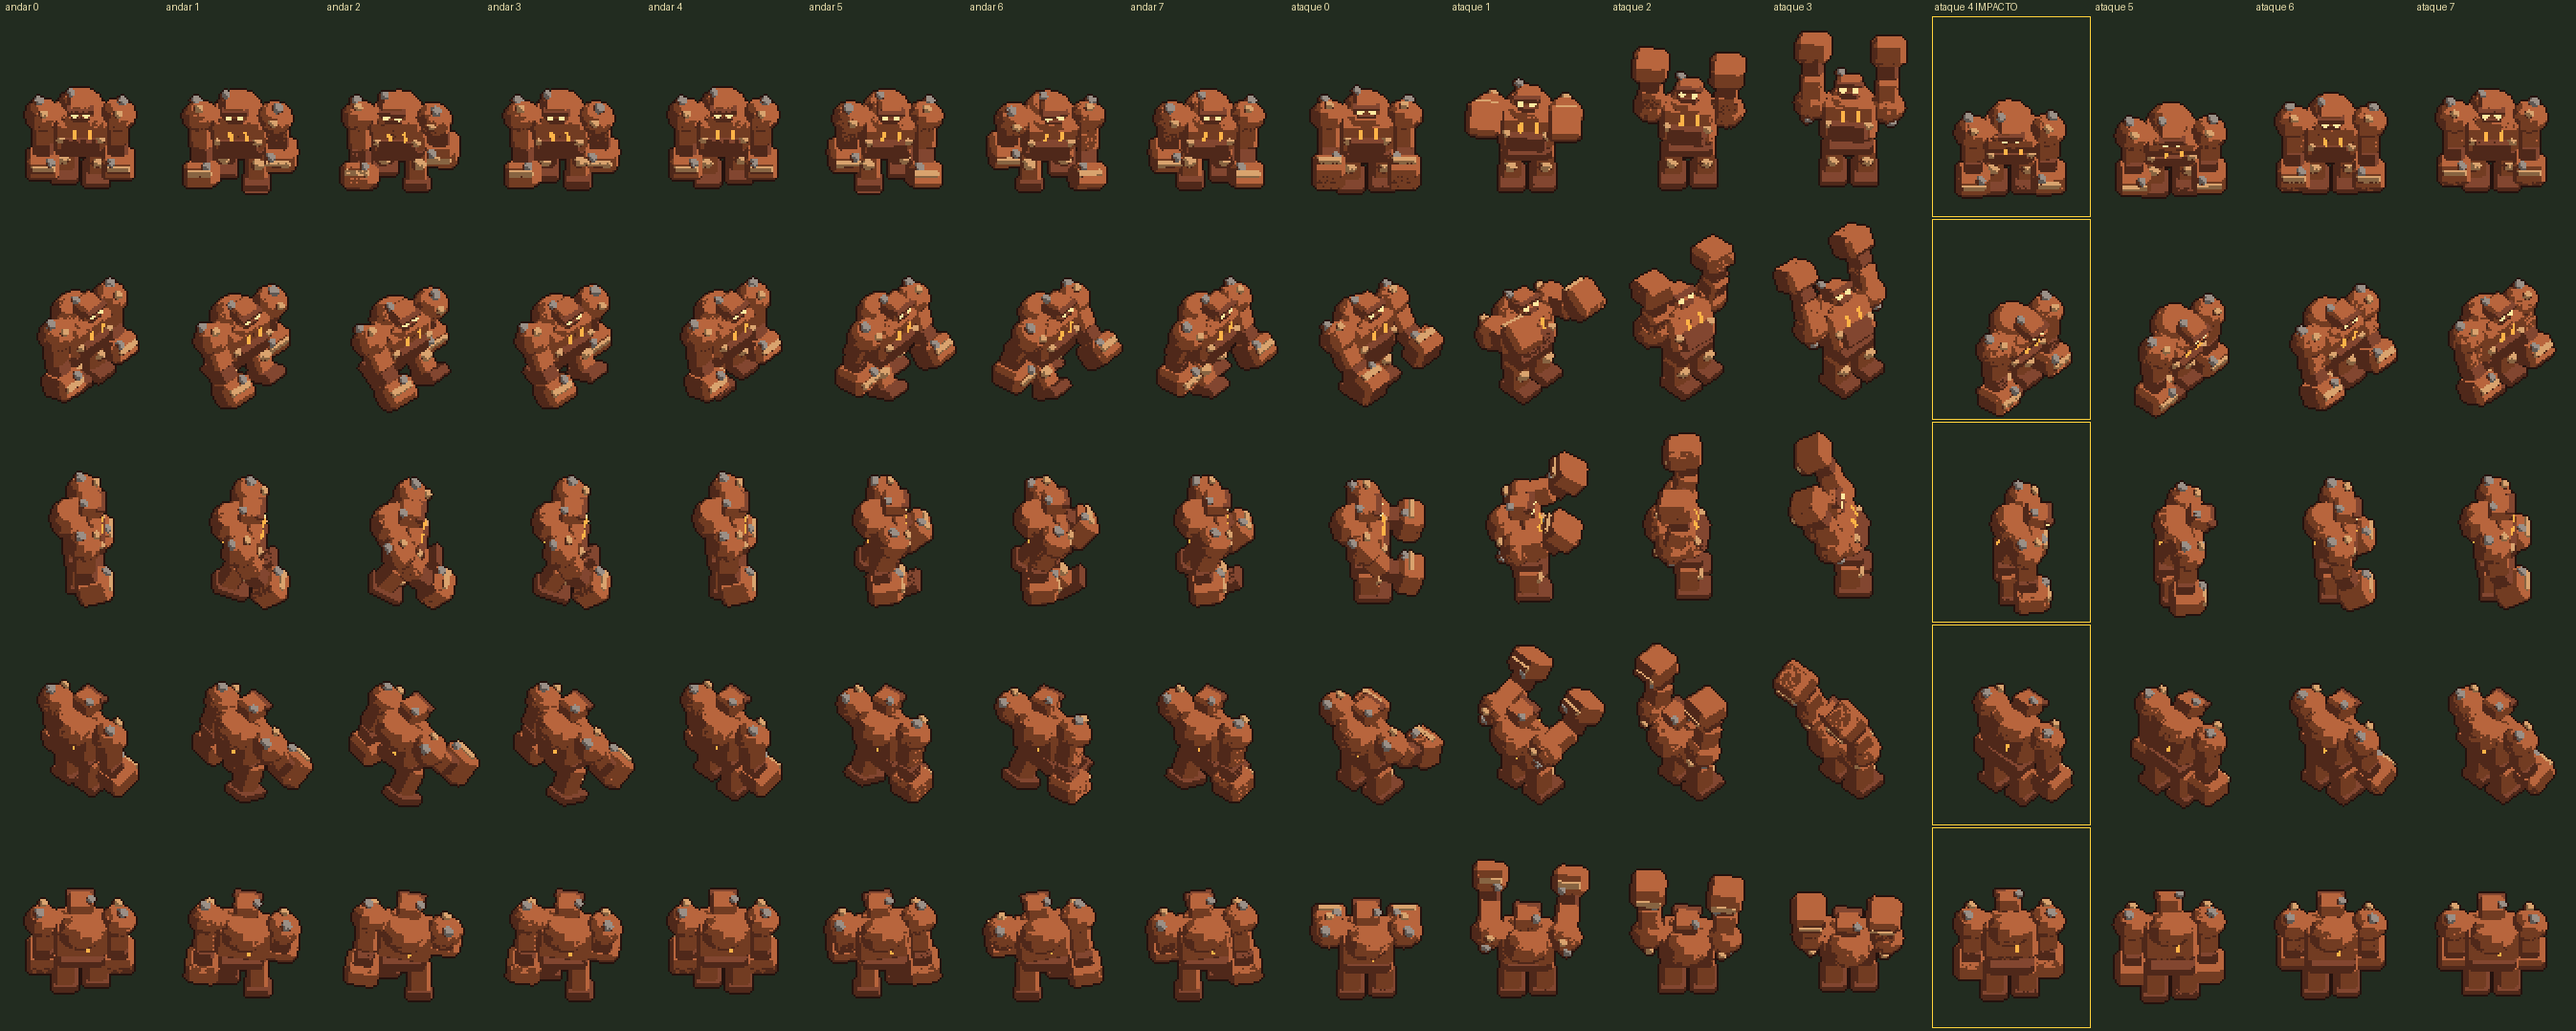
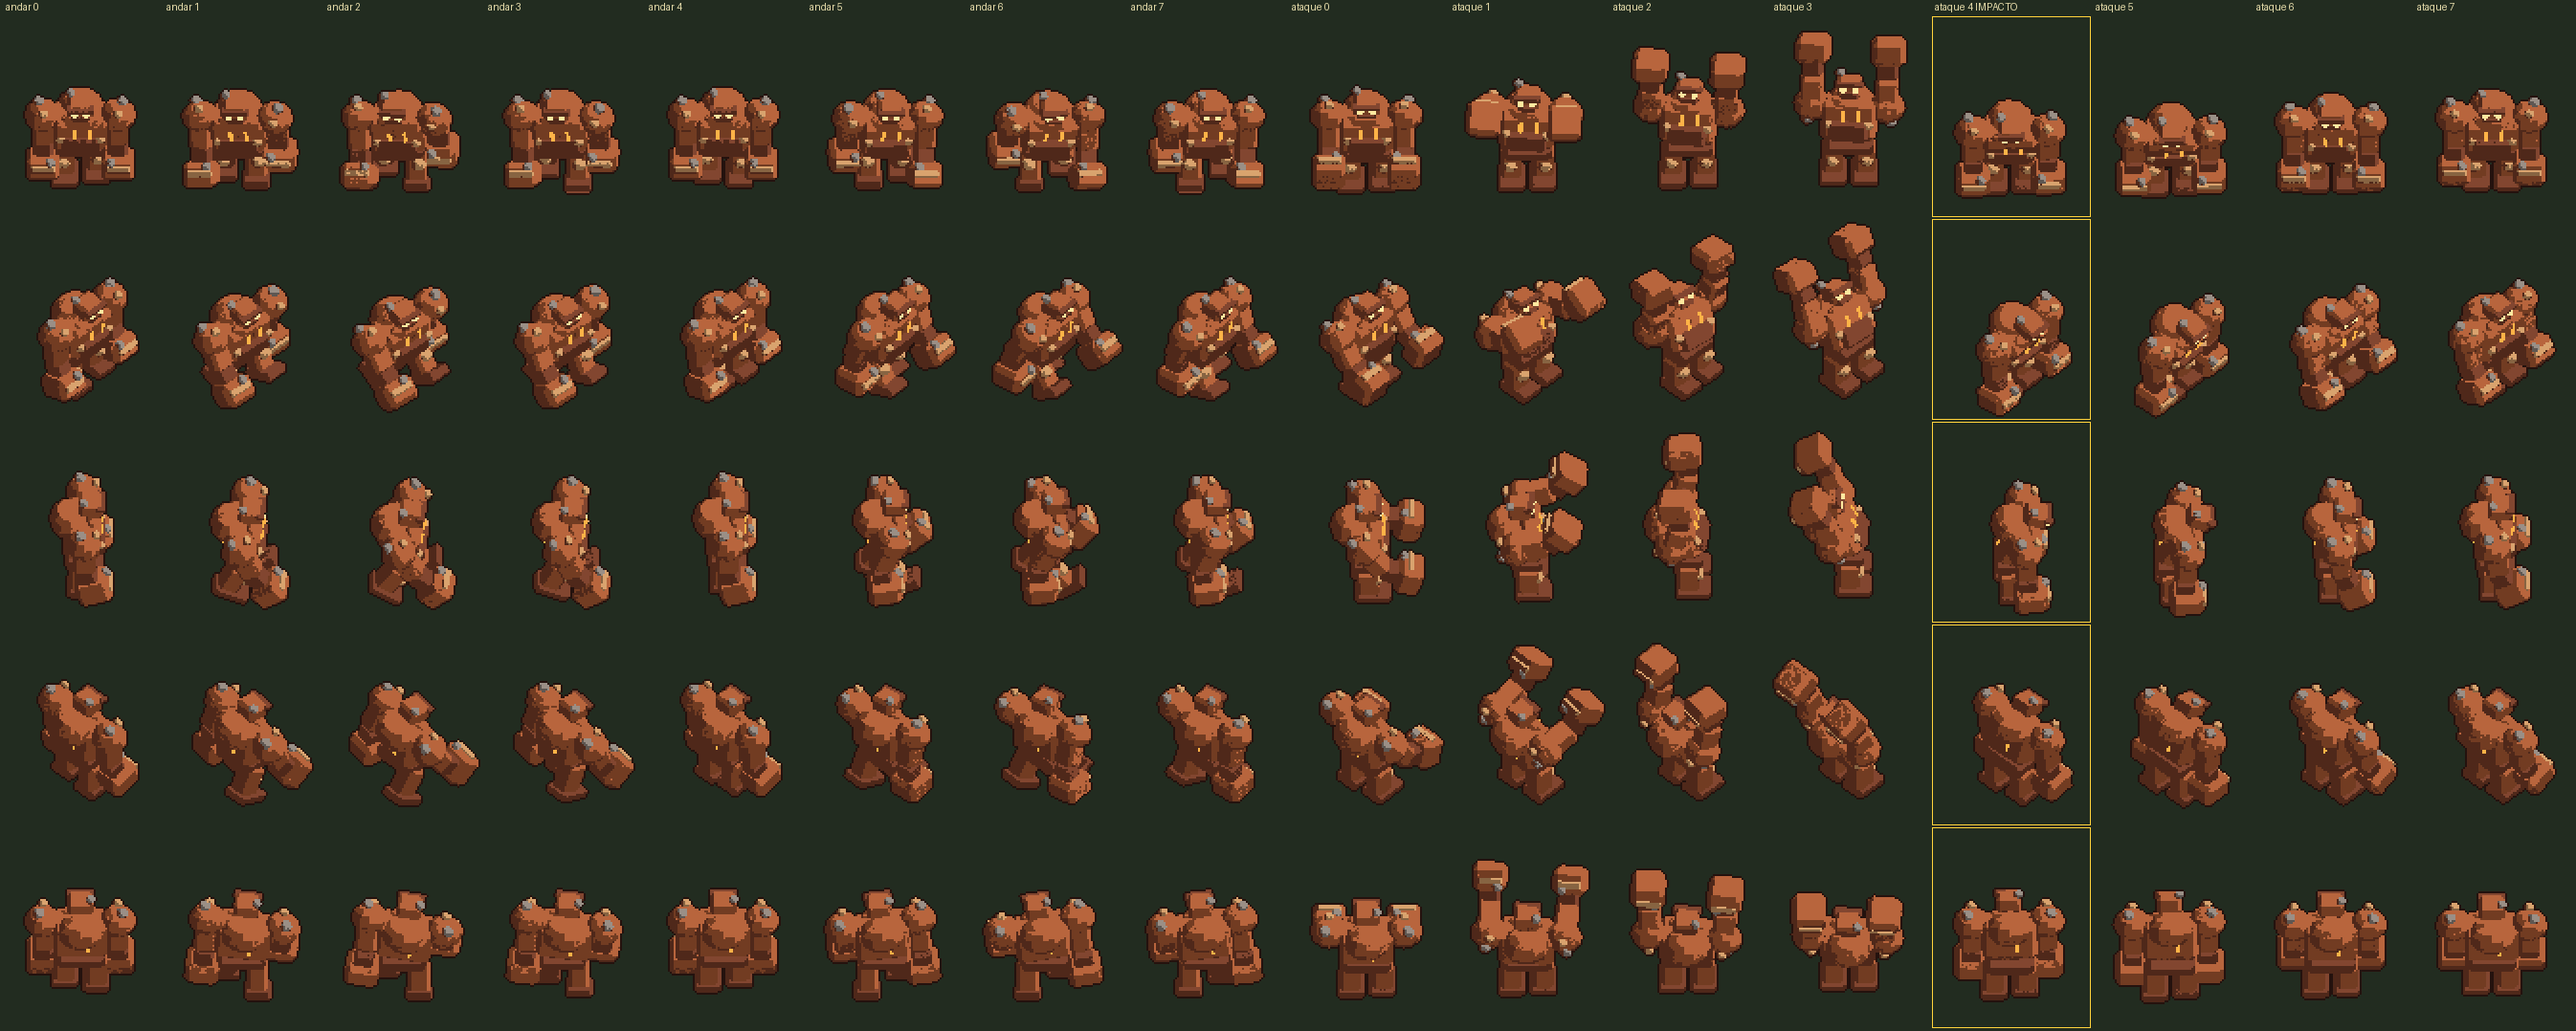
v2: Golem sem escorregar, cadência pelo tique da carta e pancada menos brusca
- Passada: CICLO_PX de 80 para 40 (a arte tem ~20 px de passo, o corpo andava 40 por pisada e o pé patinava). No gerador, a perna que
  balançava para a frente ficava no chão e a que ia para trás levantava (fase invertida); agora é o contrário. Folha e prancha regeradas.
- Cadência: o ciclo da pancada volta a ser o "tique" da carta (0,8 s no Golem, 1,0 s no Colosso); o ataque ficou com 0,72 s para caber
  e o respiro é tique - ataque (mínimo 0,08 s). Os números continuam em dados/*.json.
- Pancada em área: empurrão 170 -> 45 e atordoamento 0,25 -> 0,08 s (o golpe antigo era 30 e 0,05, em alvo único); constantes EMPURRA e ATORDOA.
- Tremor da pancada só perto do herói (360 px), como a pisada.
- Teste: a passada medida no png bate com o ciclo do código; pancada em área em 3 alvos; Colosso (escala 1,3); ciclo igual ao tique;
  caminho sem a folha (fallback).

diff --git a/jogos/hordas/fonte_arte/blender_golem/gerar_golem.py b/jogos/hordas/fonte_arte/blender_golem/gerar_golem.py
@@ -151,7 +151,8 @@ def pose(J, q):
         s, c = math.sin(f), math.cos(f)
         for lado, sg in (("e", 1.0), ("d", -1.0)):
             J["quadril_" + lado].rotation_euler = (0.62 * s * sg, 0, 0)
-            J["quadril_" + lado].delta_location = (0, 0, 0.16 * max(0.0, c * sg))
+            # a perna que balança para a frente (c*sg negativo) sai do chão; a que fica no chão vai para trás em relação ao corpo (o pé não escorrega)
+            J["quadril_" + lado].delta_location = (0, 0, 0.16 * max(0.0, -c * sg))
             J["ombro_" + lado].rotation_euler = (-0.12 - 0.50 * s * sg, 0, 0)
             J["cotovelo_" + lado].rotation_euler = (-0.30 - 0.18 * max(0.0, -s * sg), 0, 0)
         corpo.location = (0.03 * s, 0, -0.13 * abs(s) + 0.1)
